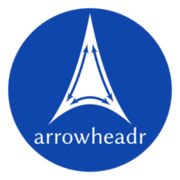
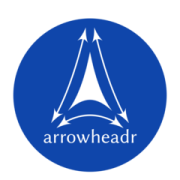
Deploying to gh-pages from @ wjschne/arrowheadr@cb3fd73acfc38735cc57dec9e1709f0fe5986505 🚀

Changed region(s): [[0.0278, 0.0278, 0.9722, 0.9444]]

diff --git a/index.html b/index.html
@@ -82,42 +82,61 @@
 </h1>
 <p>The ggarrow package makes it possible to create a wide variety of arrows. The arrowheadr package makes it easy to create custom arrowheads.</p>
 <div class="sourceCode" id="cb3"><pre class="downlit sourceCode r">
-<code class="sourceCode R"><span><span class="fu">tibble</span><span class="op">(</span>theta <span class="op">=</span> <span class="fu"><a href="https://rdrr.io/r/base/seq.html" class="external-link">seq</a></span><span class="op">(</span><span class="fl">0</span>,<span class="fl">300</span>, <span class="fl">60</span><span class="op">)</span> <span class="op">*</span> <span class="va">pi</span> <span class="op">/</span> <span class="fl">180</span>,</span>
-<span>           x <span class="op">=</span> <span class="fu"><a href="https://rdrr.io/r/base/Trig.html" class="external-link">cos</a></span><span class="op">(</span><span class="va">theta</span><span class="op">)</span>,</span>
-<span>           y <span class="op">=</span> <span class="fu"><a href="https://rdrr.io/r/base/Trig.html" class="external-link">sin</a></span><span class="op">(</span><span class="va">theta</span><span class="op">)</span><span class="op">)</span> <span class="op">|&gt;</span></span>
+<code class="sourceCode R"><span><span class="fu">tibble</span><span class="op">(</span></span>
+<span>  theta <span class="op">=</span> <span class="fu"><a href="https://rdrr.io/r/base/seq.html" class="external-link">seq</a></span><span class="op">(</span><span class="fl">0</span>, <span class="fl">300</span>, <span class="fl">60</span><span class="op">)</span> <span class="op">*</span> <span class="va">pi</span> <span class="op">/</span> <span class="fl">180</span>,</span>
+<span>  x <span class="op">=</span> <span class="fu"><a href="https://rdrr.io/r/base/Trig.html" class="external-link">cos</a></span><span class="op">(</span><span class="va">theta</span><span class="op">)</span>,</span>
+<span>  y <span class="op">=</span> <span class="fu"><a href="https://rdrr.io/r/base/Trig.html" class="external-link">sin</a></span><span class="op">(</span><span class="va">theta</span><span class="op">)</span></span>
+<span><span class="op">)</span> <span class="op">|&gt;</span></span>
 <span>  <span class="fu">ggplot</span><span class="op">(</span><span class="fu">aes</span><span class="op">(</span><span class="va">x</span>, <span class="va">y</span><span class="op">)</span><span class="op">)</span> <span class="op">+</span></span>
-<span>  <span class="fu">coord_equal</span><span class="op">(</span><span class="op">)</span> <span class="op">+</span> </span>
-<span>  <span class="fu">geom_arrow_segment</span><span class="op">(</span><span class="fu">aes</span><span class="op">(</span>xend <span class="op">=</span> <span class="va">x</span>, yend <span class="op">=</span> <span class="va">y</span>, x <span class="op">=</span> <span class="fl">0</span>, y <span class="op">=</span> <span class="fl">0</span><span class="op">)</span>, arrow_head <span class="op">=</span> <span class="fu"><a href="reference/arrow_head_hypotrochoid.html">arrow_head_deltoid</a></span><span class="op">(</span><span class="op">)</span>, resect <span class="op">=</span> <span class="fl">2</span><span class="op">)</span></span></code></pre></div>
-<p><img src="reference/figures/README-unnamed-chunk-1-1.png" style="width:100.0%"></p>
+<span>  <span class="fu">coord_equal</span><span class="op">(</span><span class="op">)</span> <span class="op">+</span></span>
+<span>  <span class="fu">geom_arrow_segment</span><span class="op">(</span><span class="fu">aes</span><span class="op">(</span></span>
+<span>    xend <span class="op">=</span> <span class="va">x</span>,</span>
+<span>    yend <span class="op">=</span> <span class="va">y</span>,</span>
+<span>    x <span class="op">=</span> <span class="fl">0</span>,</span>
+<span>    y <span class="op">=</span> <span class="fl">0</span></span>
+<span>  <span class="op">)</span>,</span>
+<span>  arrow_head <span class="op">=</span> <span class="fu"><a href="reference/arrow_head_hypotrochoid.html">arrow_head_deltoid</a></span><span class="op">(</span><span class="op">)</span>,</span>
+<span>  resect <span class="op">=</span> <span class="fl">2</span><span class="op">)</span></span></code></pre></div>
+<div id="fig-arrow">
+<p><img src="reference/figures/README-fig-arrow-1.png" style="width:100.0%" data-fig-alt="Arrows pointing outward from a common point" alt="Arrows pointing outward from a common point"></p>
+<p>Figure 1: Using arrowheadr with ggarrow</p>
+</div>
 <p>The ggdiagram package also uses arrowheadr and ggarrow under the hood.</p>
 <div class="sourceCode" id="cb4"><pre class="downlit sourceCode r">
 <code class="sourceCode R"><span><span class="co"># Make a circle</span></span>
-<span><span class="va">A</span> <span class="op">&lt;-</span> <span class="fu">ob_circle</span><span class="op">(</span>center <span class="op">=</span> <span class="fu">ob_point</span><span class="op">(</span><span class="fl">0</span>, <span class="fl">0</span><span class="op">)</span>,</span>
-<span>                  radius <span class="op">=</span> <span class="fl">1</span><span class="op">)</span></span>
+<span><span class="va">A</span> <span class="op">&lt;-</span> <span class="fu">ob_circle</span><span class="op">(</span>center <span class="op">=</span> <span class="fu">ob_point</span><span class="op">(</span><span class="fl">0</span>, <span class="fl">0</span><span class="op">)</span>, radius <span class="op">=</span> <span class="fl">1</span><span class="op">)</span></span>
 <span></span>
 <span><span class="co"># Make angles evenly spaced around a circle</span></span>
-<span><span class="va">theta</span> <span class="op">&lt;-</span> <span class="fu">degree</span><span class="op">(</span><span class="fu"><a href="https://rdrr.io/r/base/seq.html" class="external-link">seq</a></span><span class="op">(</span><span class="fl">0</span>,<span class="fl">330</span>, <span class="fl">30</span><span class="op">)</span><span class="op">)</span></span>
+<span><span class="va">theta</span> <span class="op">&lt;-</span> <span class="fu">degree</span><span class="op">(</span><span class="fu"><a href="https://rdrr.io/r/base/seq.html" class="external-link">seq</a></span><span class="op">(</span><span class="fl">0</span>, <span class="fl">330</span>, <span class="fl">30</span><span class="op">)</span><span class="op">)</span></span>
 <span></span>
 <span><span class="co"># Make ring of points around the circle</span></span>
-<span><span class="va">p</span> <span class="op">&lt;-</span> <span class="fu">ob_point</span><span class="op">(</span><span class="op">)</span> <span class="op">|&gt;</span> </span>
-<span>  <span class="fu">place</span><span class="op">(</span>from <span class="op">=</span> <span class="va">A</span>, </span>
-<span>        where <span class="op">=</span> <span class="va">theta</span>,</span>
-<span>        sep <span class="op">=</span> <span class="fl">2</span><span class="op">)</span></span>
+<span><span class="va">p</span> <span class="op">&lt;-</span> <span class="fu">ob_point</span><span class="op">(</span><span class="op">)</span> <span class="op">|&gt;</span></span>
+<span>  <span class="fu">place</span><span class="op">(</span>from <span class="op">=</span> <span class="va">A</span>, where <span class="op">=</span> <span class="va">theta</span>, sep <span class="op">=</span> <span class="fl">2</span><span class="op">)</span></span>
 <span></span>
 <span><span class="co"># Make rotated squares</span></span>
 <span><span class="va">B</span> <span class="op">&lt;-</span> <span class="fu">ob_rectangle</span><span class="op">(</span>center <span class="op">=</span> <span class="va">p</span>, angle <span class="op">=</span> <span class="va">theta</span><span class="op">)</span></span>
 <span></span>
 <span></span>
-<span><span class="fu">ggdiagram</span><span class="op">(</span><span class="op">)</span> <span class="op">+</span> </span>
-<span>  <span class="va">A</span> <span class="op">+</span> </span>
-<span>  <span class="va">B</span> <span class="op">+</span> </span>
+<span><span class="fu">ggdiagram</span><span class="op">(</span><span class="op">)</span> <span class="op">+</span></span>
+<span>  <span class="va">A</span> <span class="op">+</span></span>
+<span>  <span class="va">B</span> <span class="op">+</span></span>
 <span>  <span class="co"># Arrows from A to B</span></span>
-<span>  <span class="fu">connect</span><span class="op">(</span><span class="va">A</span>, <span class="va">B</span>, resect <span class="op">=</span> <span class="fl">2</span><span class="op">)</span> <span class="op">+</span> </span>
+<span>  <span class="fu">connect</span><span class="op">(</span><span class="va">A</span>, </span>
+<span>          <span class="va">B</span>, </span>
+<span>          resect <span class="op">=</span> <span class="fl">2</span><span class="op">)</span> <span class="op">+</span></span>
 <span>  <span class="co"># Straight arrows from B to adjacent B</span></span>
-<span>  <span class="fu">connect</span><span class="op">(</span><span class="va">B</span><span class="op">@</span><span class="va">north</span>, <span class="va">B</span><span class="op">[</span><span class="fu"><a href="https://rdrr.io/r/base/c.html" class="external-link">c</a></span><span class="op">(</span><span class="fl">2</span><span class="op">:</span><span class="fl">12</span>, <span class="fl">1</span><span class="op">)</span><span class="op">]</span><span class="op">@</span><span class="va">south</span>, resect <span class="op">=</span> <span class="fl">2</span><span class="op">)</span> <span class="op">+</span> </span>
+<span>  <span class="fu">connect</span><span class="op">(</span><span class="va">B</span><span class="op">@</span><span class="va">north</span>, </span>
+<span>          <span class="va">B</span><span class="op">[</span><span class="fu"><a href="https://rdrr.io/r/base/c.html" class="external-link">c</a></span><span class="op">(</span><span class="fl">2</span><span class="op">:</span><span class="fl">12</span>, <span class="fl">1</span><span class="op">)</span><span class="op">]</span><span class="op">@</span><span class="va">south</span>, </span>
+<span>          resect <span class="op">=</span> <span class="fl">2</span><span class="op">)</span> <span class="op">+</span></span>
 <span>  <span class="co"># Arc arrows from B to adjacent B</span></span>
-<span>  <span class="fu">connect</span><span class="op">(</span><span class="va">B</span><span class="op">[</span><span class="fu"><a href="https://rdrr.io/r/base/c.html" class="external-link">c</a></span><span class="op">(</span><span class="fl">2</span><span class="op">:</span><span class="fl">12</span>, <span class="fl">1</span><span class="op">)</span><span class="op">]</span><span class="op">@</span><span class="va">east</span>, <span class="va">B</span><span class="op">@</span><span class="va">east</span>, arc_bend <span class="op">=</span> <span class="op">-</span><span class="fl">1</span>, resect <span class="op">=</span> <span class="fl">2</span><span class="op">)</span></span></code></pre></div>
-<p><img src="reference/figures/README-unnamed-chunk-2-1.png" style="width:100.0%"></p>
+<span>  <span class="fu">connect</span><span class="op">(</span><span class="va">B</span><span class="op">[</span><span class="fu"><a href="https://rdrr.io/r/base/c.html" class="external-link">c</a></span><span class="op">(</span><span class="fl">2</span><span class="op">:</span><span class="fl">12</span>, <span class="fl">1</span><span class="op">)</span><span class="op">]</span><span class="op">@</span><span class="va">east</span>, </span>
+<span>          <span class="va">B</span><span class="op">@</span><span class="va">east</span>, </span>
+<span>          arc_bend <span class="op">=</span> <span class="op">-</span><span class="fl">1</span>, </span>
+<span>          resect <span class="op">=</span> <span class="fl">2</span><span class="op">)</span></span></code></pre></div>
+<div id="fig-ggdiagram">
+<p><img src="reference/figures/README-fig-ggdiagram-1.png" style="width:100.0%" data-fig-alt="Rectangle arranged in a circle, connected with arrows" alt="Rectangle arranged in a circle, connected with arrows"></p>
+<p>Figure 2: Using arrowheadr with ggdiagram</p>
+</div>
 </div>
 
   </main><aside class="col-md-3"><div class="links">

diff --git a/reference/arrowheads.html b/reference/arrowheads.html
@@ -46,7 +46,7 @@
     <h2 id="format">Format<a class="anchor" aria-label="anchor" href="#format"></a></h2>
 
 <div class="section">
-<h3 id="arrowheads"><code>arrowheads</code><a class="anchor" aria-label="anchor" href="#arrowheads"></a></h3>
+<h3 id="structure">Structure<a class="anchor" aria-label="anchor" href="#structure"></a></h3>
 
 
 <p>A list of matrices with xy coordinates</p><dl><dt>chippenham</dt>

diff --git a/index.md b/index.md
@@ -31,46 +31,65 @@ arrowheads.
 
 ``` r
 
-tibble(theta = seq(0,300, 60) * pi / 180,
-           x = cos(theta),
-           y = sin(theta)) |>
+tibble(
+  theta = seq(0, 300, 60) * pi / 180,
+  x = cos(theta),
+  y = sin(theta)
+) |>
   ggplot(aes(x, y)) +
-  coord_equal() + 
-  geom_arrow_segment(aes(xend = x, yend = y, x = 0, y = 0), arrow_head = arrow_head_deltoid(), resect = 2)
+  coord_equal() +
+  geom_arrow_segment(aes(
+    xend = x,
+    yend = y,
+    x = 0,
+    y = 0
+  ),
+  arrow_head = arrow_head_deltoid(),
+  resect = 2)
 ```
 
-![](reference/figures/README-unnamed-chunk-1-1.png)
+![Arrows pointing outward from a common
+point](reference/figures/README-fig-arrow-1.png)
+
+Figure 1: Using arrowheadr with ggarrow
 
 The ggdiagram package also uses arrowheadr and ggarrow under the hood.
 
 ``` r
 
 # Make a circle
-A <- ob_circle(center = ob_point(0, 0),
-                  radius = 1)
+A <- ob_circle(center = ob_point(0, 0), radius = 1)
 
 # Make angles evenly spaced around a circle
-theta <- degree(seq(0,330, 30))
+theta <- degree(seq(0, 330, 30))
 
 # Make ring of points around the circle
-p <- ob_point() |> 
-  place(from = A, 
-        where = theta,
-        sep = 2)
+p <- ob_point() |>
+  place(from = A, where = theta, sep = 2)
 
 # Make rotated squares
 B <- ob_rectangle(center = p, angle = theta)
 
 
-ggdiagram() + 
-  A + 
-  B + 
+ggdiagram() +
+  A +
+  B +
   # Arrows from A to B
-  connect(A, B, resect = 2) + 
+  connect(A, 
+          B, 
+          resect = 2) +
   # Straight arrows from B to adjacent B
-  connect(B@north, B[c(2:12, 1)]@south, resect = 2) + 
+  connect(B@north, 
+          B[c(2:12, 1)]@south, 
+          resect = 2) +
   # Arc arrows from B to adjacent B
-  connect(B[c(2:12, 1)]@east, B@east, arc_bend = -1, resect = 2)
+  connect(B[c(2:12, 1)]@east, 
+          B@east, 
+          arc_bend = -1, 
+          resect = 2)
 ```
 
-![](reference/figures/README-unnamed-chunk-2-1.png)
+![Rectangle arranged in a circle, connected with
+arrows](reference/figures/README-fig-ggdiagram-1.png)
+
+Figure 2: Using arrowheadr with ggdiagram

diff --git a/reference/arrowheads.md b/reference/arrowheads.md
@@ -10,7 +10,7 @@ arrowheads
 
 ## Format
 
-### `arrowheads`
+### Structure
 
 A list of matrices with xy coordinates
 
